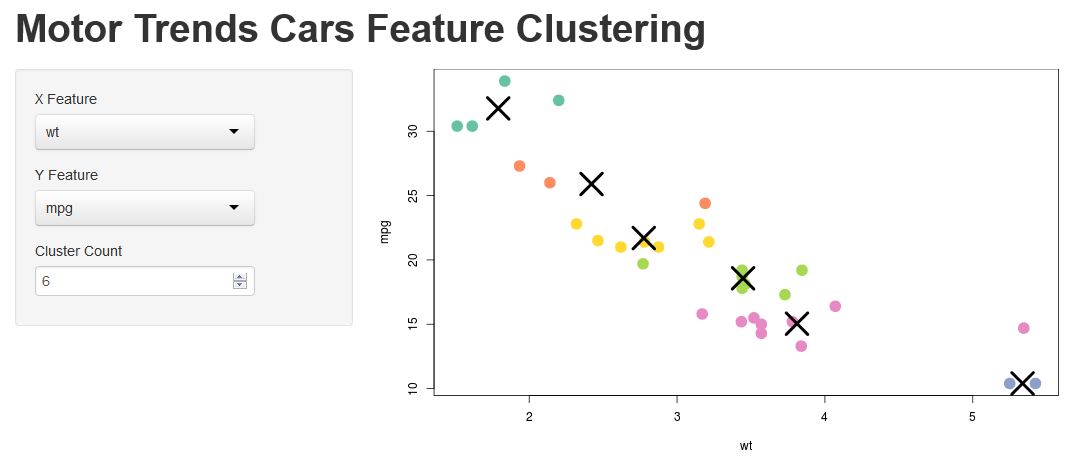
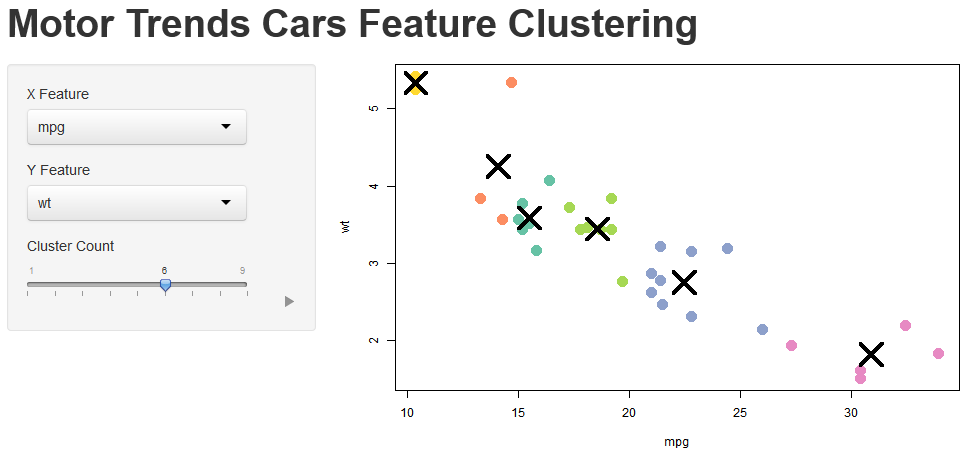
Large clean up of server, ui, user doc, and preso

diff --git a/MTCarsAppUser.html b/MTCarsAppUser.html
@@ -58,21 +58,21 @@ if (window.hljs && document.readyState && document.readyState === "complete") {
 </div>
 
 
-<div id="using-the-k-means-for-cars-app" class="section level2">
-<h2>Using the K-Means for Cars App</h2>
-<p>With this Shiny application, you can interact with the standard R K-Means clustering algorithm, watching it cluster data in real time. The algorithm is run on the Motor Trend Cars data base with all variables available on the x or y axis and the ability to choose the number of clusters desired.</p>
-<p>You can run the application at <a href="https://mikedamour.shinyapps.io/ShinyProject" class="uri">https://mikedamour.shinyapps.io/ShinyProject</a>.</p>
+<div id="using-the-k-means-for-cars-app" class="section level3">
+<h3>Using the K-Means for Cars App</h3>
[1 lines of base64/hex data omitted]
+</div>
 <div id="interaction" class="section level3">
 <h3>Interaction</h3>
 <p>The MTcars App allows you to</p>
 <ul>
-<li>Choose any one of the <em>R-builtin mtcars</em> dataset for your x-axis and your y-axis using slide-out menus.</li>
-<li>Choose the number of clusters you would like to have fit on the scatterplot data.</li>
-<li>As you choose variables, you will see the data change immediately, the algorithm choosing the tightest clusters and marking their centers prominently.</li>
+<li>Choose any one of the <em>R-builtin mtcars</em> dataset for your x-axis and your y-axis using slide-out menus.<br /></li>
+<li>Choose the number of clusters you would like to have fit on the scatterplot data via slider.<br /></li>
+<li>As you choose variables, you will see the data change immediately, the algorithm choosing the tightest clusters and marking their centers prominently.<br /></li>
+<li>Pressing the slider arrow will cause the chosen set of variables to be clustered using 1 through 9 clusters.</li>
 </ul>
 <p>The app also provides an interesting visualization of the relationship of automobile performance to various car features.</p>
-<p><strong>Attribution</strong><br />This application is based with light modifications on the Iris Data k-means template by Joe Cheng <a href="mailto:joe@rstudio.com">joe@rstudio.com</a> at the RStudio Gallery site.</p>
-</div>
+<p><strong>Attribution</strong><br />This application is based on the Iris Data k-means template by Joe Cheng <a href="mailto:joe@rstudio.com">joe@rstudio.com</a> at the RStudio Gallery site.</p>
 </div>
 
 

diff --git a/MTCarsPitch.md b/MTCarsPitch.md
@@ -2,41 +2,57 @@ K-Means Demo on MTCars Data
 ========================================================
 author: Michael R. D'Amour  
 date: 11/22/14
+transition: rotate
+navigation: slide
 
 K-Means Demo on Multivariate Data
 ========================================================
-
+incremental: true
  
 MTCars Shiny App lets you
-- Interact with the standard R K-Means clustering algorithm
-- Watch clustering decisions in real time on lots of data
+- Interact with standard R K-Means clustering
+- Watch clustering decisions animate in real-time - arrow in lower right
 ![Figure 1](mtcars_qsec_hp.png)
 
 
 
-Intuition on K-Means
+Interactive Intuition on K-Means
 ========================================================
-The MTcars K-Means App allows  
+transition: concave
 
-- Any var of the R-builtin *mtcars* dataset  
-    - for x-axis  
-    - for y-axis 
-    - using slide-out menus
-- Choice of number of clusters  
+R code shows simplicity of clustering use  
+Code here reduced for format, eval = F here  
+Fully reproducible code at github.com/mikedamour
 
-(In a kinder world, RPresenter would allow me to paste a .png here or run Shiny locally and echo here.)
+```r
+shinyServer(function(input, output) {
+    selectedData <- reactive({
+        mtcars[, c(input$xcol, 
+                   input$ycol)]})
+    clusters <- 
+        reactive({kmeans(selectedData(), 
+                         input$clusters)})
+    output$plot1 <- renderPlot({
+        plot(selectedData(), 
+            col=clusters()$cluster, pch=19)
+        points(clusters()$centers, pch=4)})
+})
+```
 
 Interactive 
 ===
+transition: zoom
+
 - As you choose, data changes immediately
 - K-means chooses obvious and not-so-obvious clusters 
 - Cluster centers marked prominently  
-
 ![Figure 1](mtcars_mpg_wt_6.png)
 
 
-Auto Intuition, Maybe?
+... and Maybe Some Auto Intuition?
 ===
+transition: rotate
+
 Interesting visualization of relationship of performance to car features. Try various combinations.  
 - weight vs. mpg
 - horsepower or displacement vs. quarter mile time
